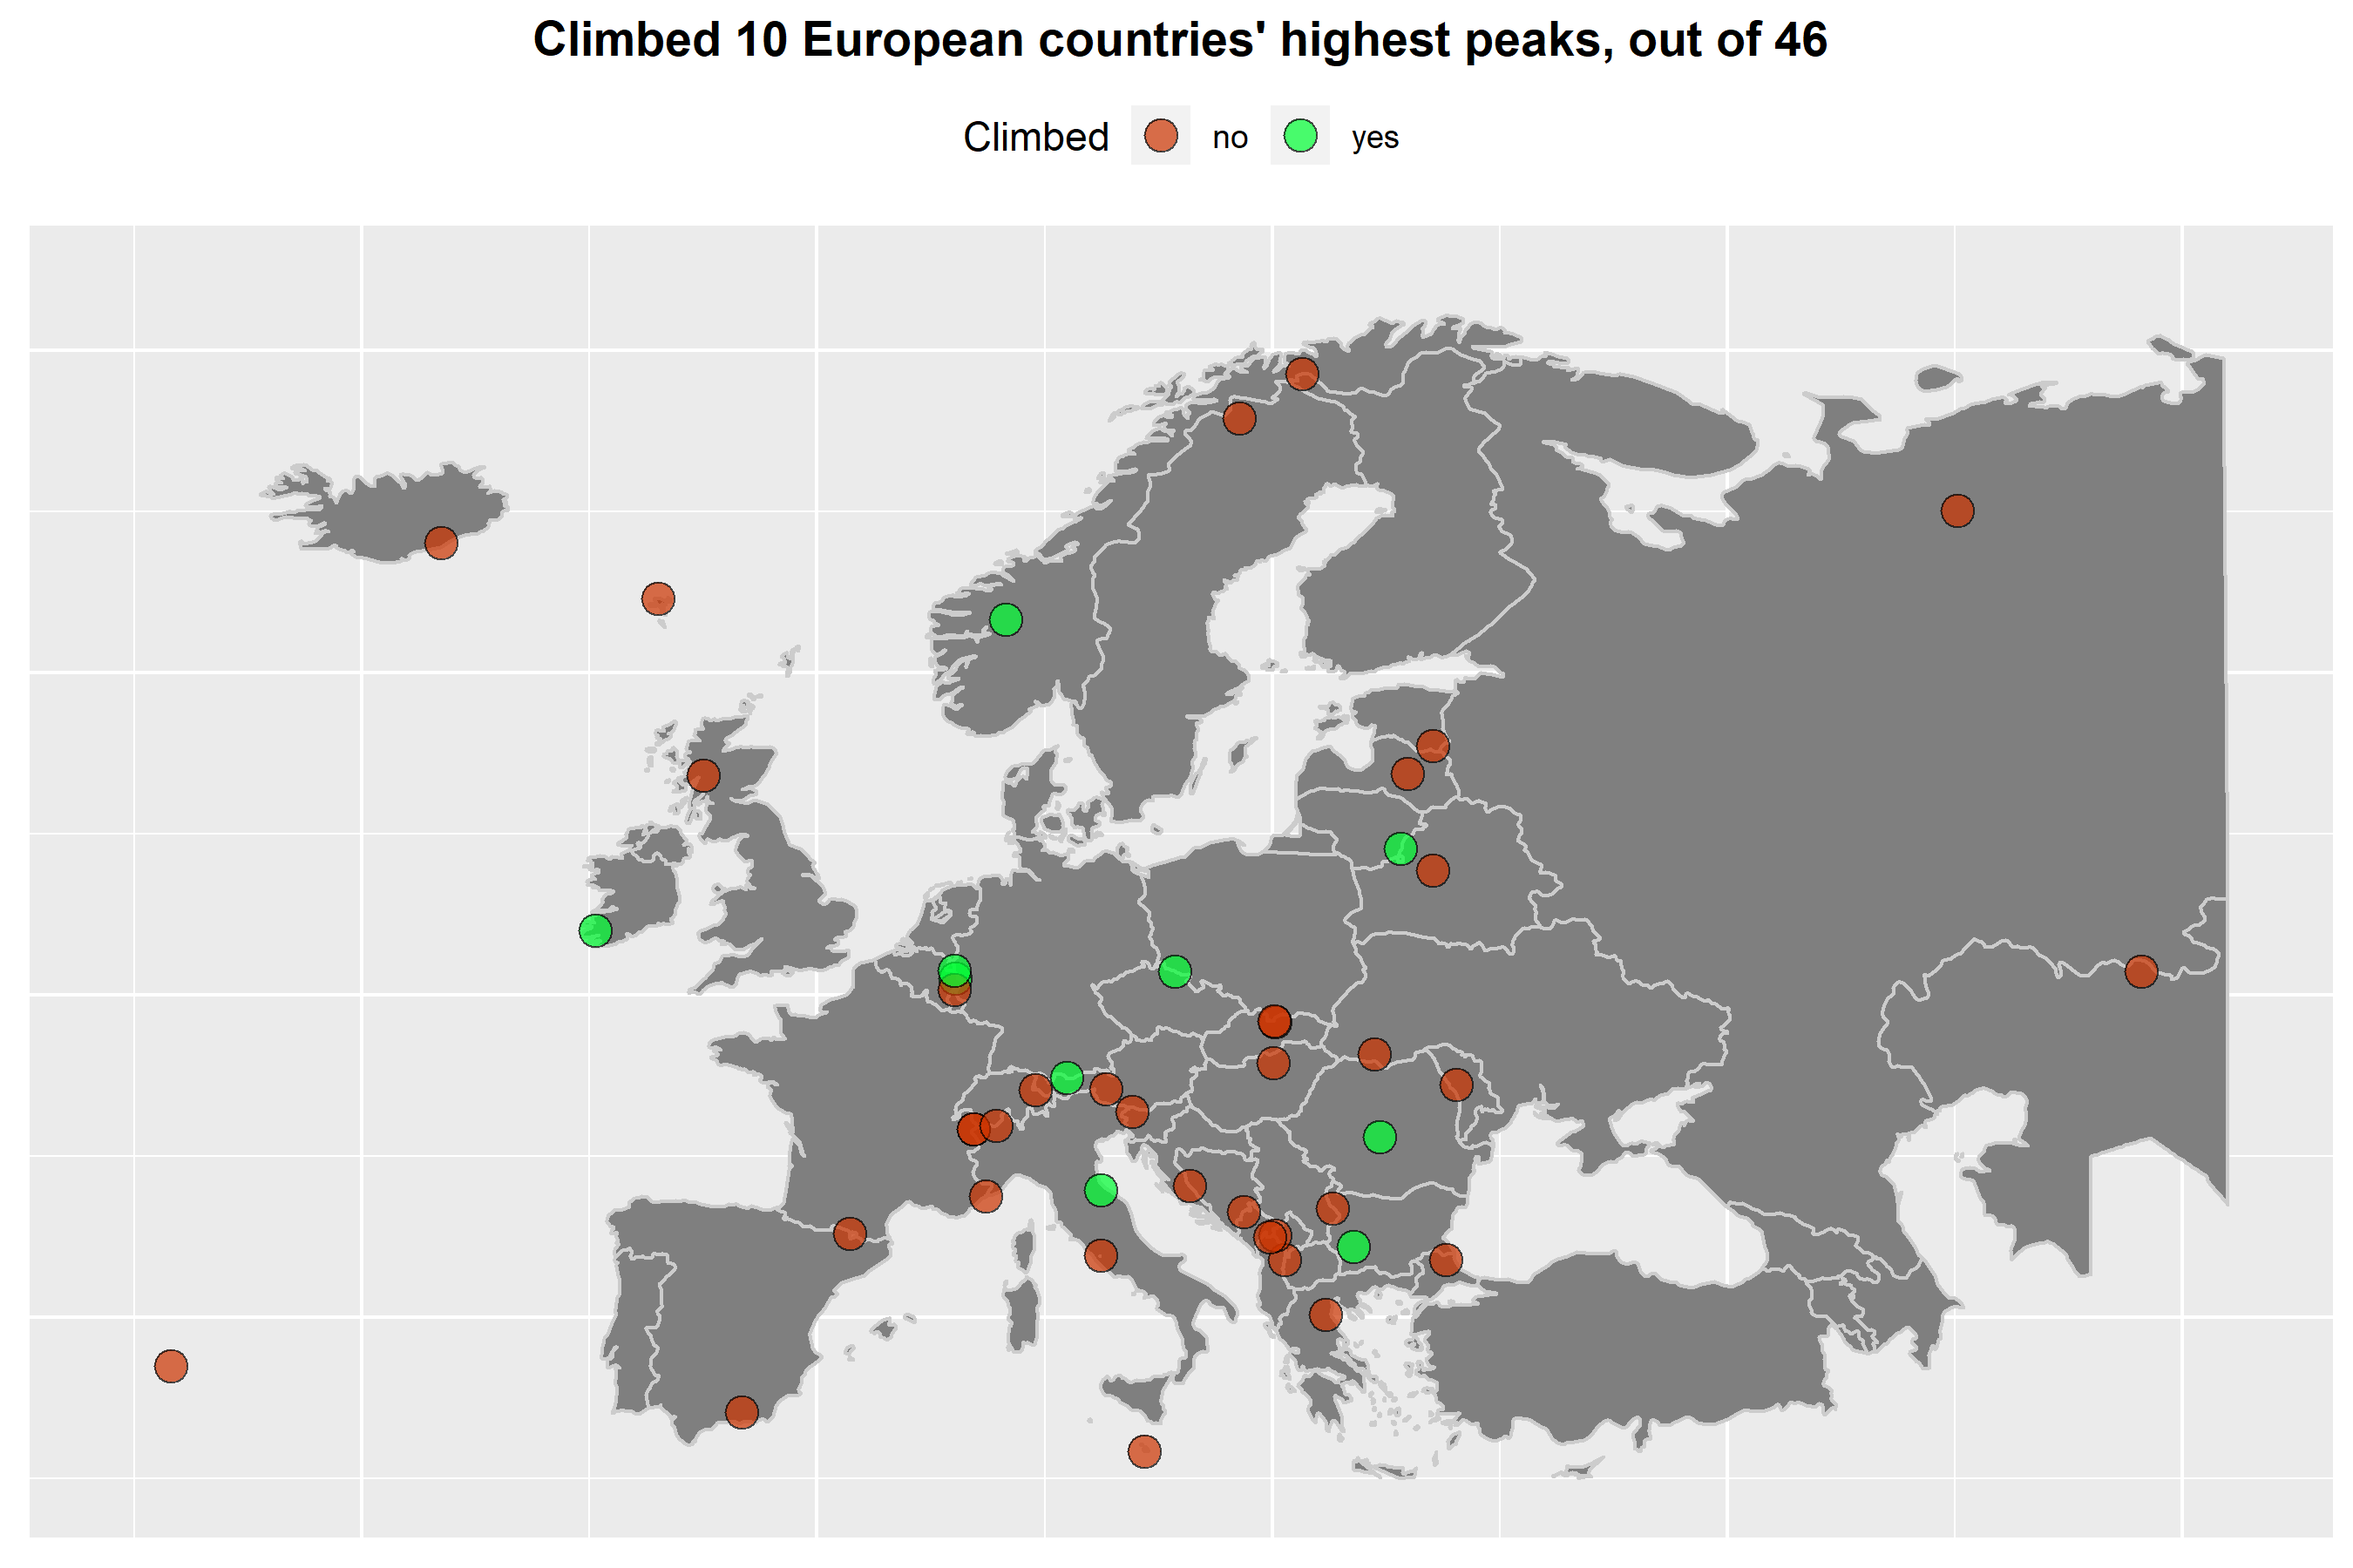
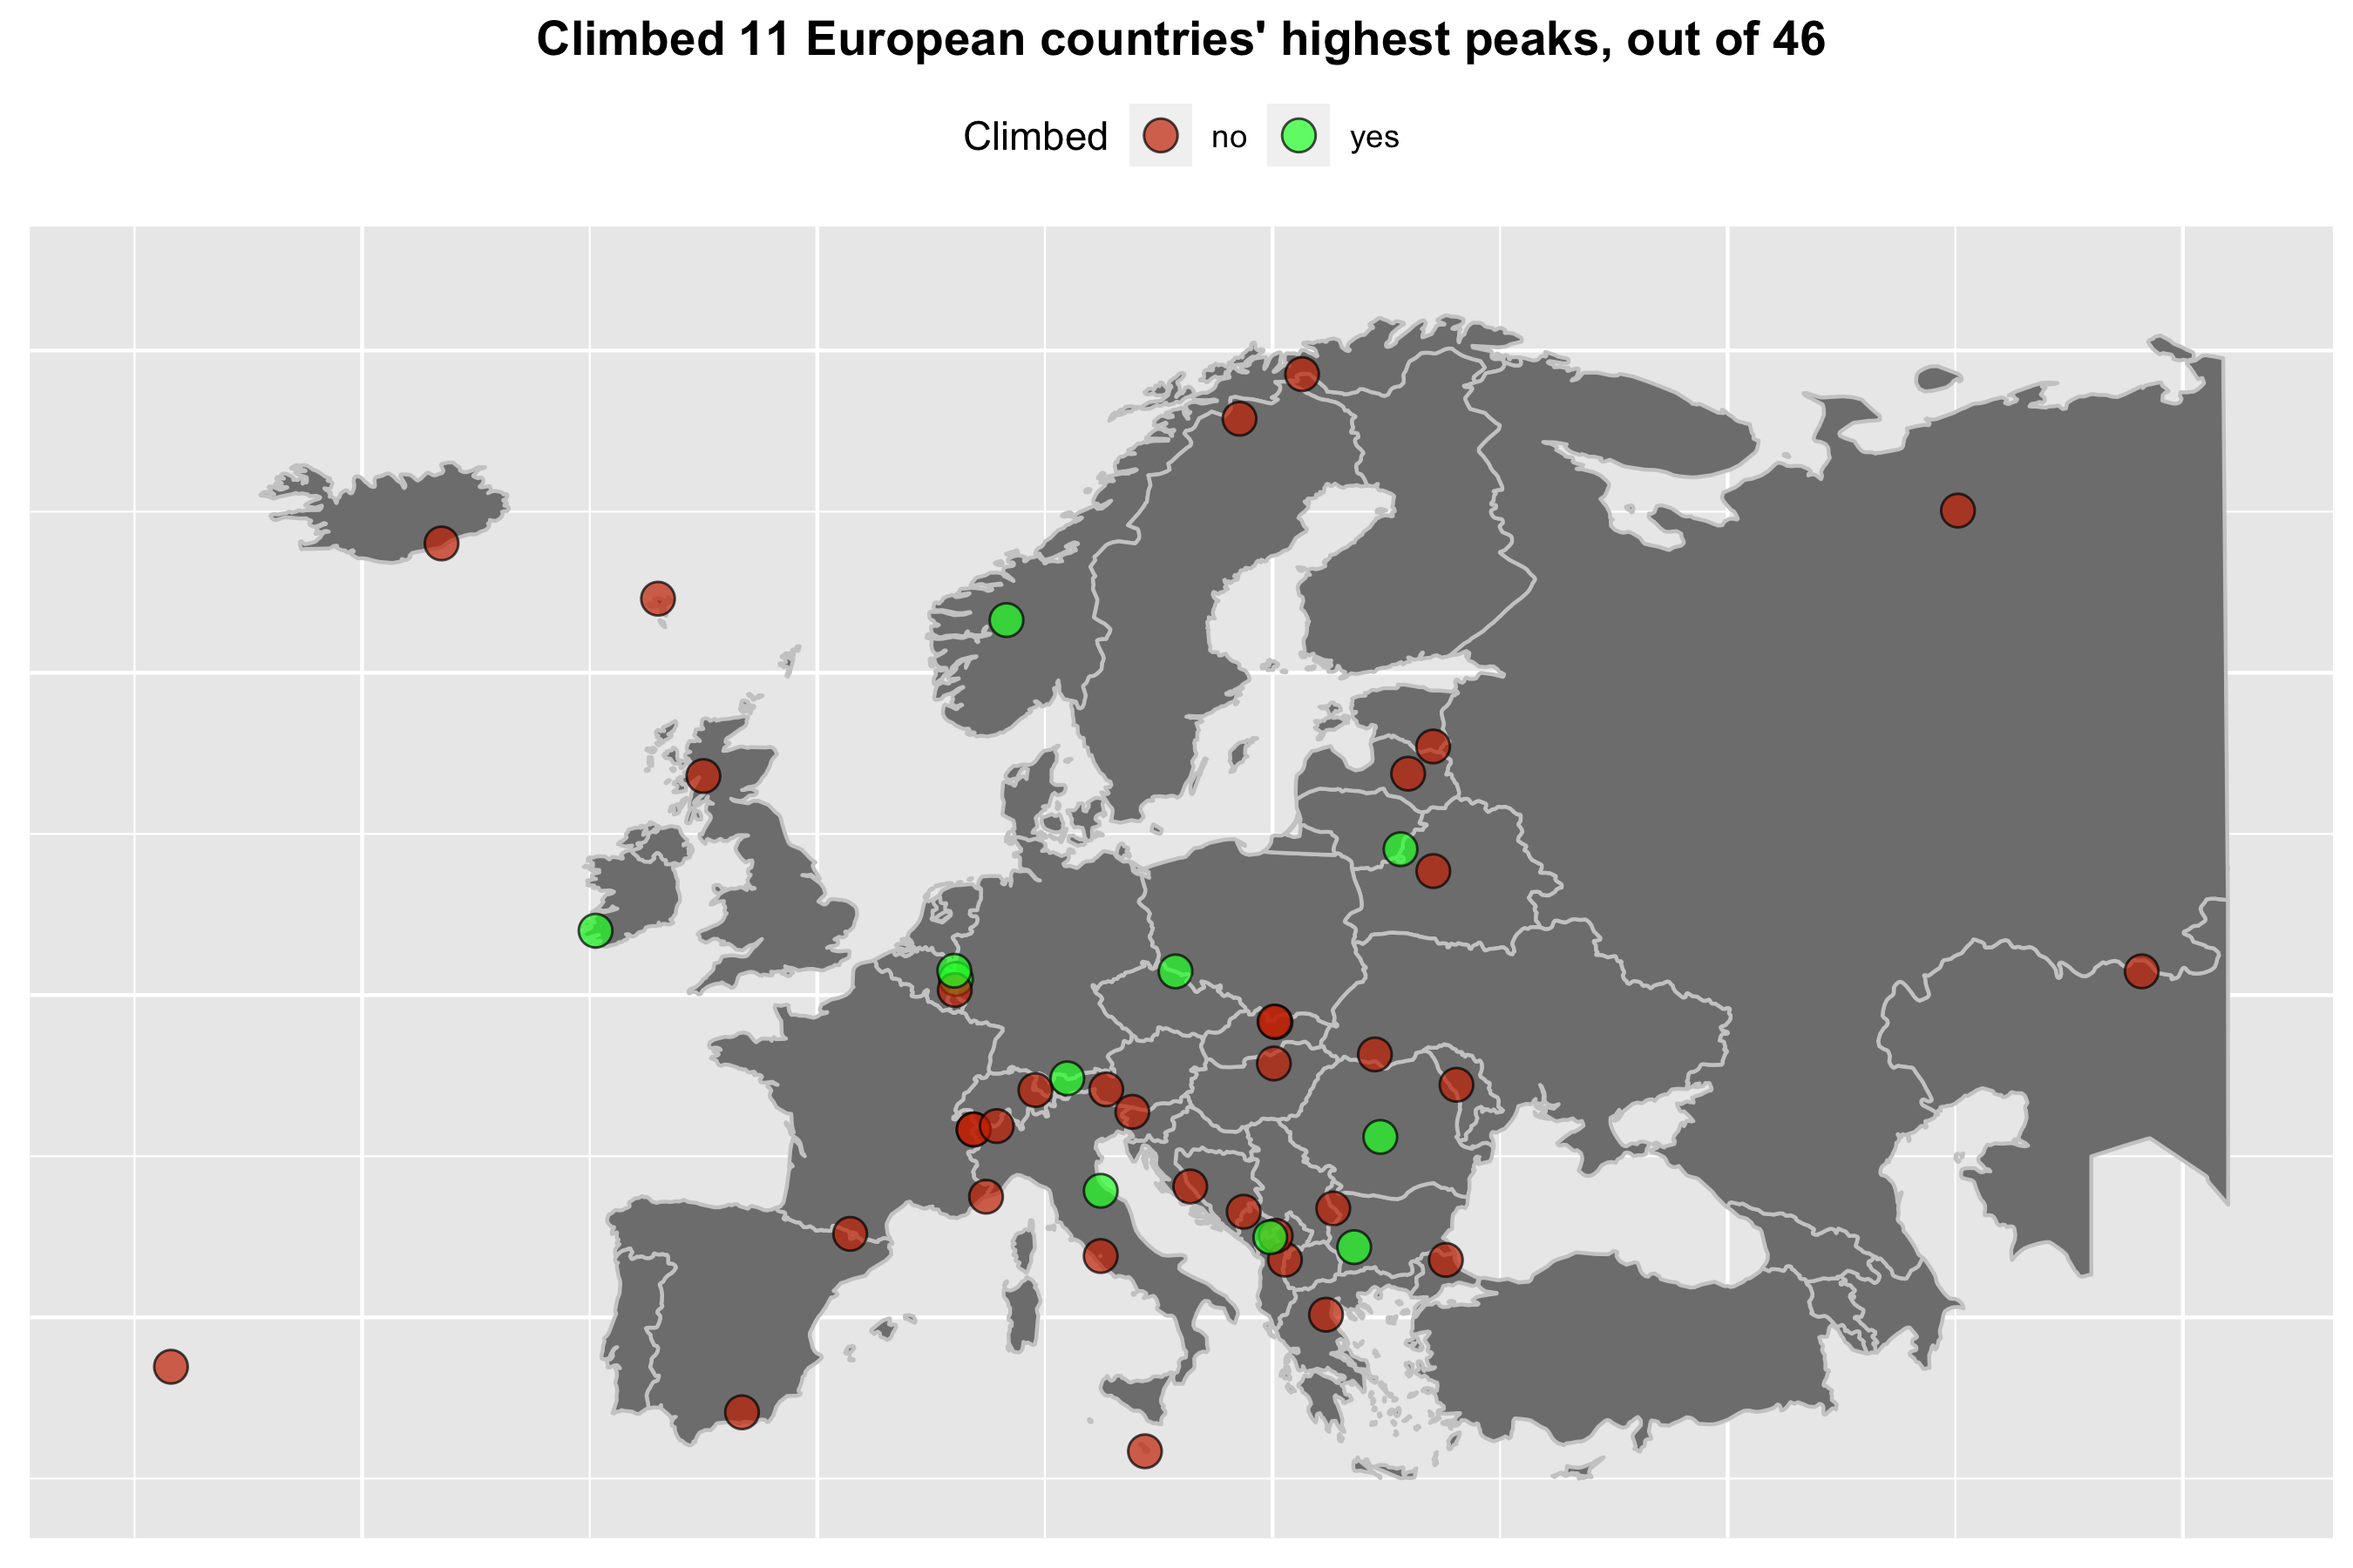
Montenegro update

diff --git a/README.md b/README.md
@@ -35,7 +35,7 @@ The goal of the project is to visit the highest natural elevation of each sovere
 |   14|Slovakia               |Gerlach                    |2 655 m   |                    |
 |   15|Liechtenstein          |Grauspitz                  |2 599 m   |                    |
 |   16|Romania                |Moldoveanu                 |2 544 m   | ✔ |
-|   17|Montenegro             |Zla Kolata                 |2 534 m   |                    |
+|   17|Montenegro             |Zla Kolata                 |2 534 m   | ✔ |
 |   18|Poland                 |Rysy                       |2 499 m   |                    |
 |   19|Norway                 |Galdhopiggen               |2 469 m   | ✔ |
 |   20|Bosnia and Herzegovina |Maglic                     |2 386 m   |                    |
